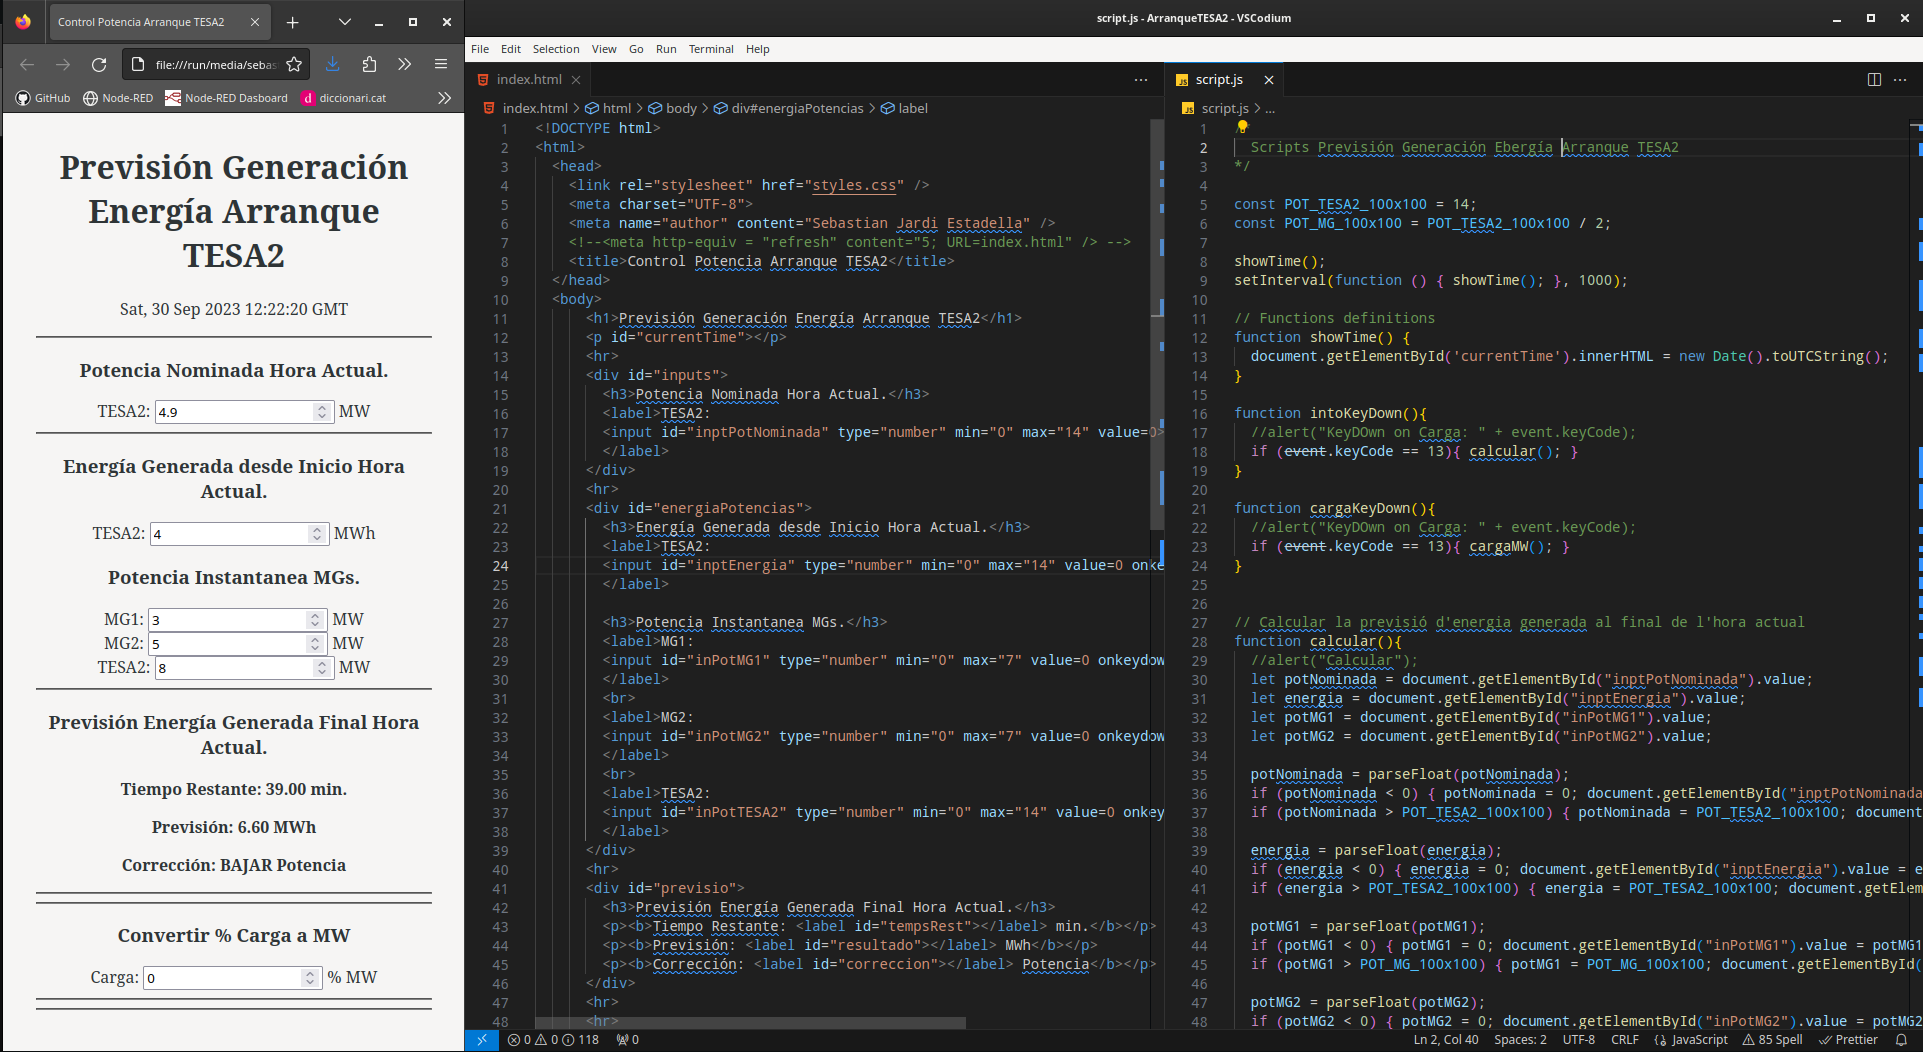
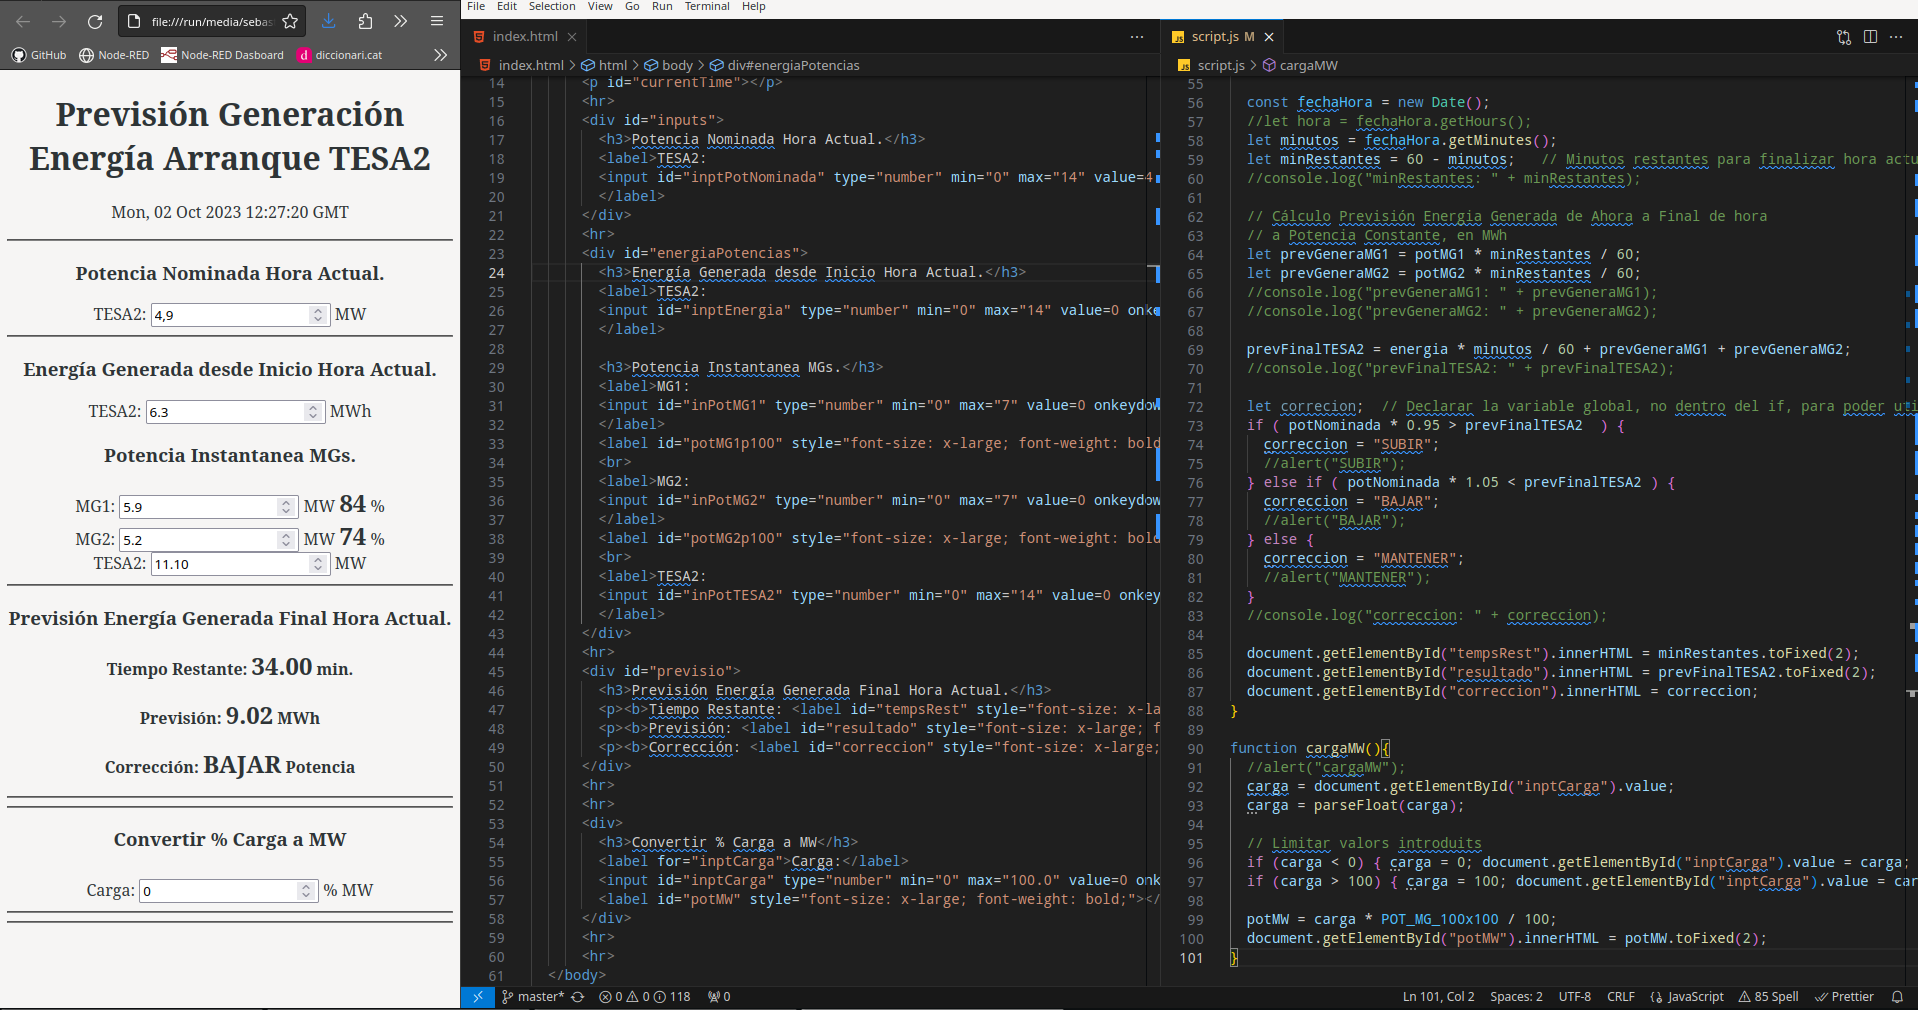
Change Updated Image

diff --git a/script.js b/script.js
@@ -33,25 +33,25 @@ function calcular(){
   let potMG2 = document.getElementById("inPotMG2").value;
   
   potNominada = parseFloat(potNominada);
-  if (potNominada < 0) { potNominada = 0; document.getElementById("inptPotNominada").value = potNominada; }
+  if (potNominada < 0) { potNominada = 0; document.getElementById("inptPotNominada").value = potNominada.toFixed(2); }
   if (potNominada > POT_TESA2_100x100) { potNominada = POT_TESA2_100x100; document.getElementById("inptPotNominada").value = potNominada;}
   
   energia = parseFloat(energia);
   if (energia < 0) { energia = 0; document.getElementById("inptEnergia").value = energia; }
-  if (energia > POT_TESA2_100x100) { energia = POT_TESA2_100x100; document.getElementById("inptEnergia").value = energia;}
+  if (energia > POT_TESA2_100x100) { energia = POT_TESA2_100x100; document.getElementById("inptEnergia").value = energia.toFixed(2);}
   
   potMG1 = parseFloat(potMG1);
   if (potMG1 < 0) { potMG1 = 0; document.getElementById("inPotMG1").value = potMG1; }
-  if (potMG1 > POT_MG_100x100) { potMG1 = POT_MG_100x100; document.getElementById("inPotMG1").value = potMG1;}
+  if (potMG1 > POT_MG_100x100) { potMG1 = POT_MG_100x100; document.getElementById("inPotMG1").value = potMG1.toFixed(2);}
   document.getElementById("potMG1p100").innerHTML = (potMG1 / POT_MG_100x100 * 100).toFixed(0);
 
   potMG2 = parseFloat(potMG2);
   if (potMG2 < 0) { potMG2 = 0; document.getElementById("inPotMG2").value = potMG2; }
-  if (potMG2 > POT_MG_100x100) { potMG2 = POT_MG_100x100; document.getElementById("inPotMG2").value = potMG2;}
+  if (potMG2 > POT_MG_100x100) { potMG2 = POT_MG_100x100; document.getElementById("inPotMG2").value = potMG2.toFixed(2);}
   document.getElementById("potMG2p100").innerHTML = (potMG2 / POT_MG_100x100 * 100).toFixed(0);
 
   let potTESA2 = potMG1 + potMG2;
-  document.getElementById("inPotTESA2").value = potTESA2;
+  document.getElementById("inPotTESA2").value = potTESA2.toFixed(2);
   
   const fechaHora = new Date();
   //let hora = fechaHora.getHours();
